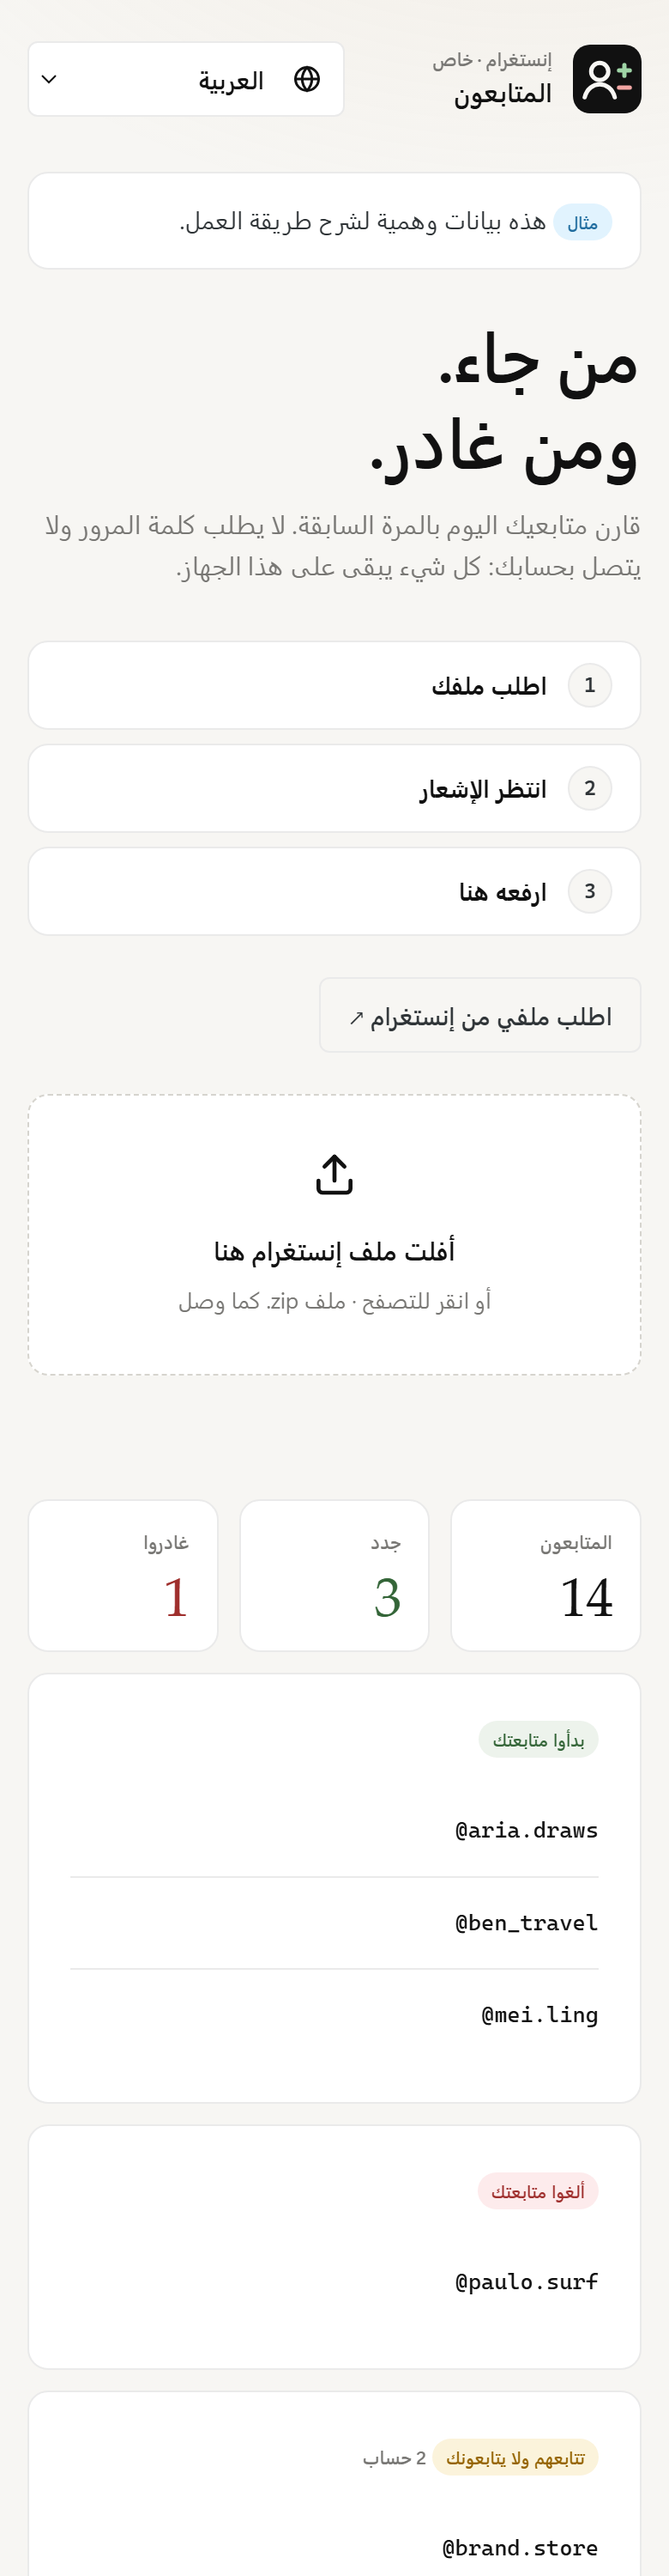
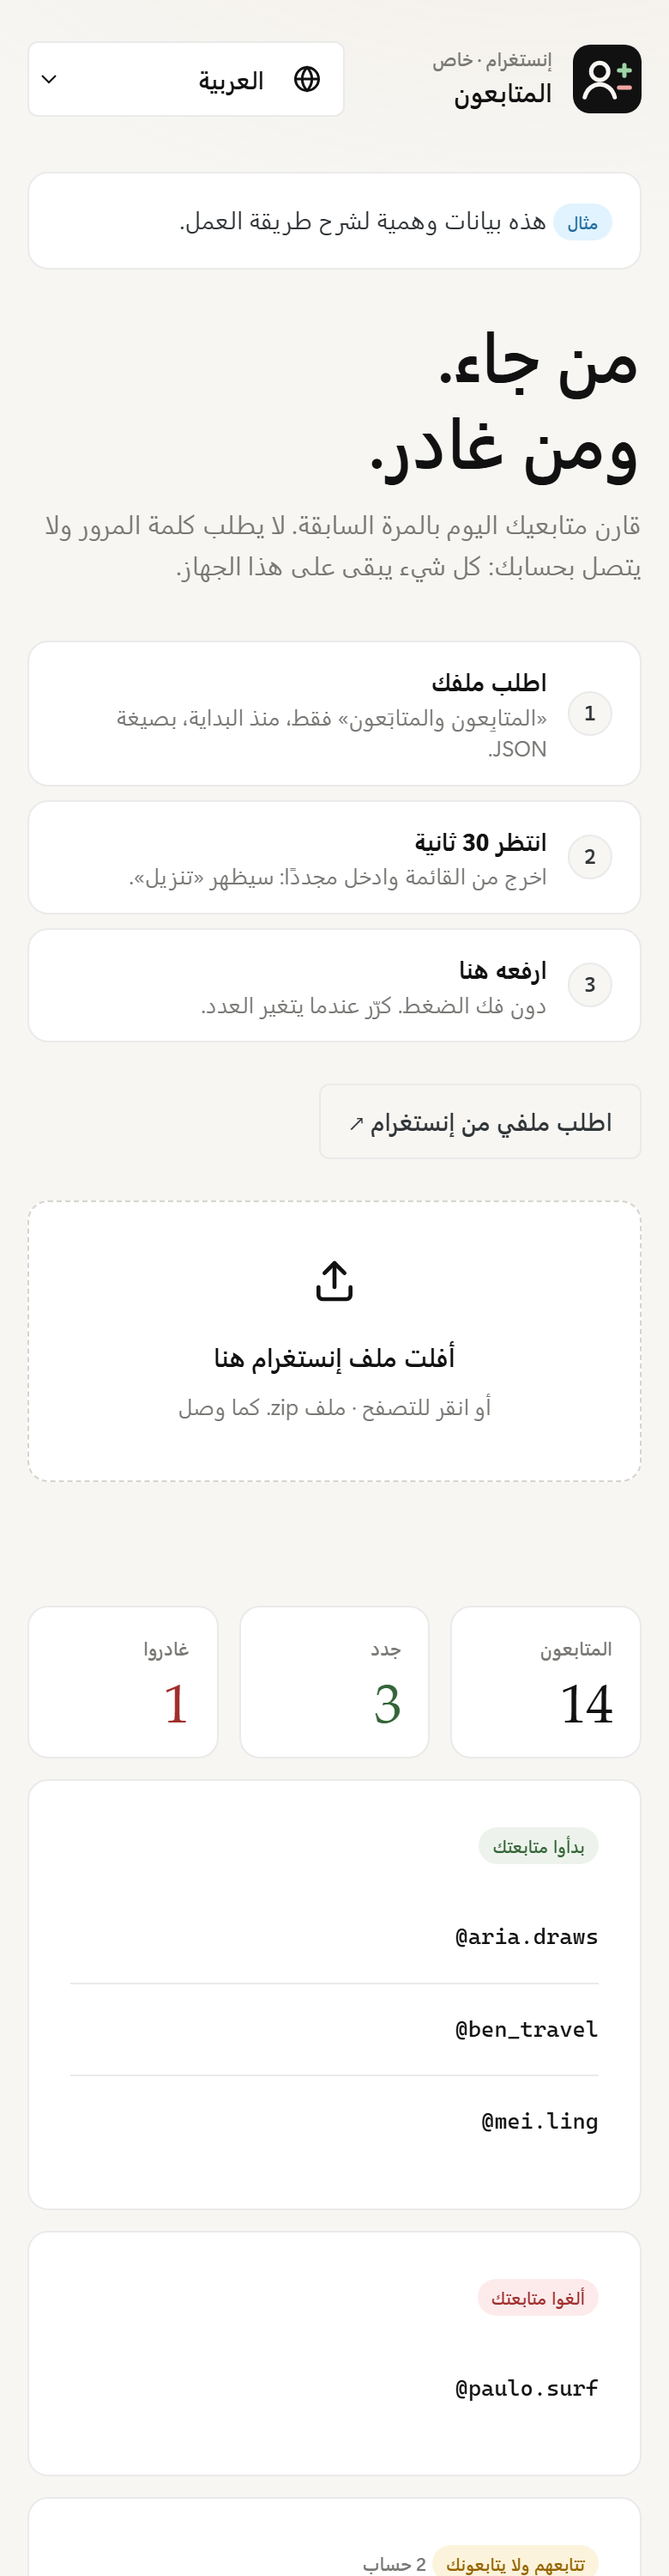
Add wait-and-reopen step, creator credit and legal disclaimer

diff --git a/README.md b/README.md
@@ -5,6 +5,8 @@
 <p align="center"><b>See who followed and who unfollowed you on Instagram.</b><br>
 Private, free, and safe for your account. No login, no password, no bots.</p>
 
+<p align="center"><a href="https://samutecyt.github.io/follower-diff/"><b>Open the app</b></a> · <a href="https://samutecyt.github.io/follower-diff/#demo">Try it with example data</a></p>
+
 <p align="center">
   <a href="#español">Español</a> · <a href="#english">English</a>
 </p>
@@ -42,10 +44,11 @@ It uses only Instagram's official **Download your information** feature. The app
 - A single, readable HTML file with no dependencies. You can audit all of it.
 
 ### How to use
-1. Open `index.html` in any modern browser (Chrome, Edge, Safari, Firefox), on a computer or a phone.
+1. Open **https://samutecyt.github.io/follower-diff/** (or download `index.html`) in any modern browser, on a computer or a phone.
 2. Tap **Request my file from Instagram** and choose: *Export to device* › *Customize information* › only **Followers and following** › Date range **All time** › Format **JSON**.
-3. When Instagram emails you, download the `.zip` and drop it into the page **without unzipping it**.
-4. Repeat whenever your follower count changes. Each new file is compared with the previous one.
+3. Wait about **30 seconds**. Instagram's screen doesn't refresh by itself and looks like it's still processing. **Leave that menu and open it again**, and the **Download** button will be there.
+4. Download the `.zip` and drop it into the page **without unzipping it**.
+5. Repeat whenever your follower count changes. Each new file is compared with the previous one.
 
 ### Languages
 Opens in your device's language automatically, and you can switch at any time from the selector at the top:
@@ -74,10 +77,11 @@ Solo usa la función oficial **Descargar tu información** de Instagram. La app 
 - Es un único archivo HTML, sin dependencias, que cualquiera puede revisar.
 
 ### Cómo usarlo
-1. Abre `index.html` en cualquier navegador moderno, en el ordenador o en el móvil.
+1. Abre **https://samutecyt.github.io/follower-diff/** (o descarga `index.html`) en cualquier navegador moderno, en el ordenador o en el móvil.
 2. Toca **Pedir mi archivo a Instagram** y elige: *Exportar a dispositivo* › *Personalizar información* › solo **Seguidores y seguidos** › Intervalo **Desde el principio** › Formato **JSON**.
-3. Cuando Instagram te avise, descarga el `.zip` y súbelo a la página **sin descomprimirlo**.
-4. Repite cuando cambie tu número de seguidores. Cada archivo se compara con el anterior.
+3. Espera unos **30 segundos**. La pantalla de Instagram no se actualiza sola y parece que sigue procesando: **sal de ese menú y vuelve a entrar**, y ya verás el botón **Descargar**.
+4. Descarga el `.zip` y súbelo a la página **sin descomprimirlo**.
+5. Repite cuando cambie tu número de seguidores. Cada archivo se compara con el anterior.
 
 ---
 
@@ -86,4 +90,12 @@ Solo usa la función oficial **Descargar tu información** de Instagram. La app 
 - `build.py`: embeds the logo and writes `index.html` (requires Python and Pillow)
 - Try it with example data by opening `index.html#demo` (or `#demo-ja`, `#demo-ar`, …)
 
-Not affiliated with Instagram or Meta. MIT License.
+## Credits and license / Créditos y licencia
+Created by **[SamuTecYT](https://github.com/SamuTecYT)**. Free to use, copy and modify under the [MIT License](LICENSE), **as long as you credit the creator** and keep the license notice.
+
+Creado por **SamuTecYT**. Puedes usarlo, copiarlo y modificarlo gratis con la licencia MIT, **siempre que des crédito a su creador** y mantengas el aviso de licencia.
+
+## Disclaimer / Aviso legal
+Independent project, not affiliated with, endorsed by or connected to Instagram or Meta Platforms, Inc. Provided "as is", without warranty of any kind. Each user is responsible for how they use it. The creator is not liable for any damage, data loss or consequence to any account.
+
+Proyecto independiente, sin relación con Instagram ni Meta. Se ofrece "tal cual", sin garantías. Cada persona es responsable del uso que le dé y el creador no se hace responsable de ningún daño, pérdida de datos o consecuencia en ninguna cuenta.
